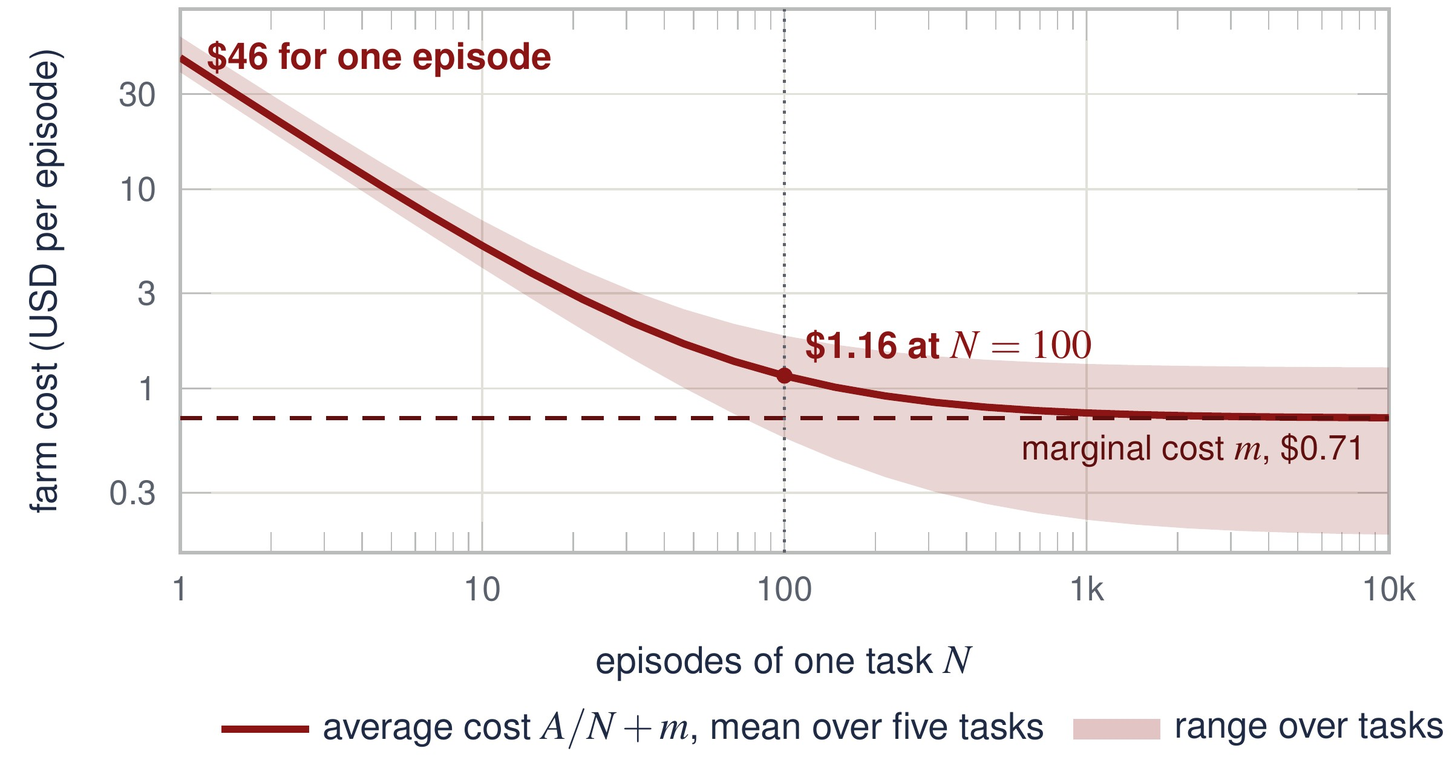
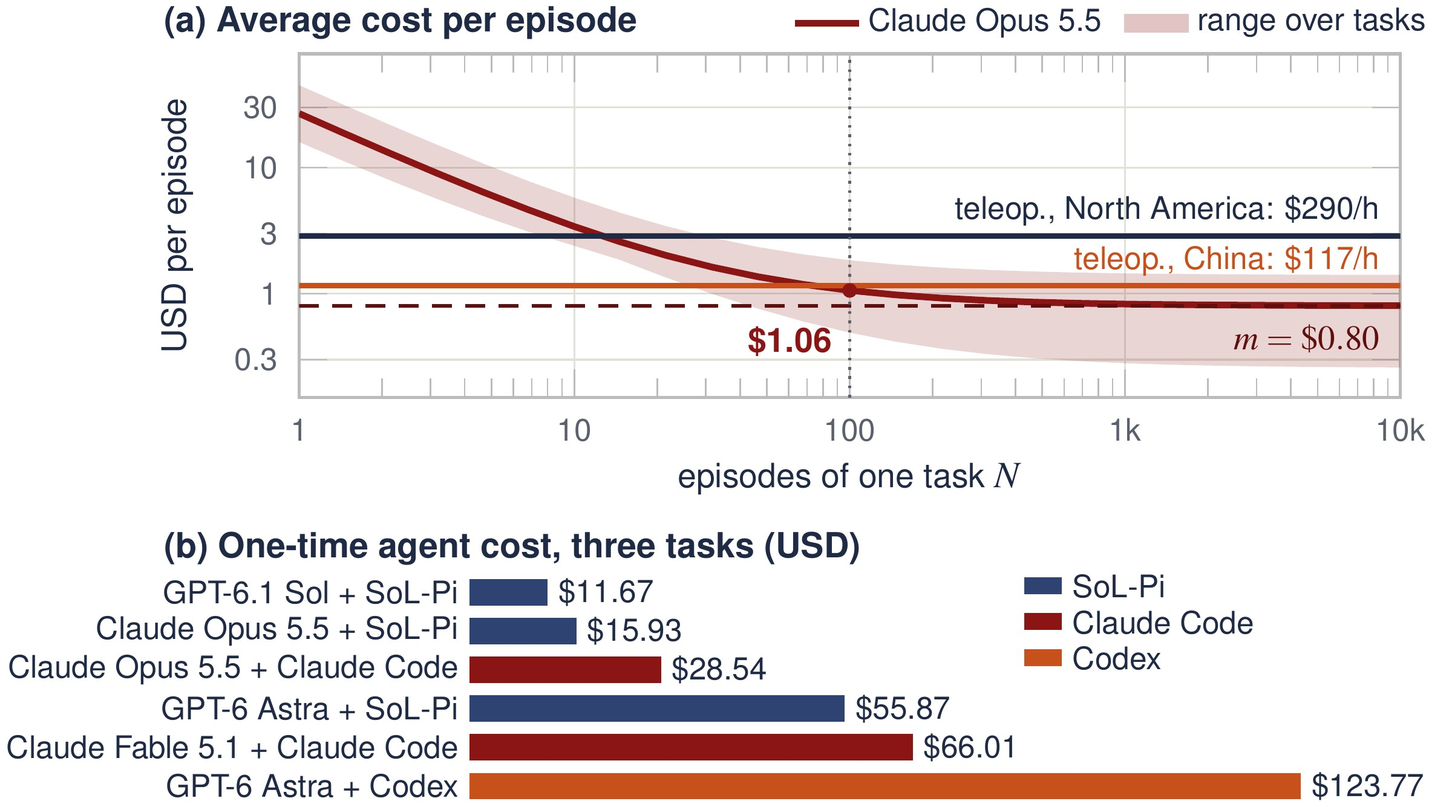
Cost numbers, title and authors as in the paper (r2s2v-paper 99e6ab6)
Use the paper's one-time costs: $21 per task, $1.06 at N=100, $0.83 at
N=1000 and $107 for one hour of data per task. Take the paper's title,
14-author list and wording, re-export the cost, farm and teaser images, and
keep the cost chart labels clear of the lower curve.

diff --git a/index.html b/index.html
@@ -3,14 +3,14 @@
 <head>
   <meta charset="utf-8">
   <meta name="viewport" content="width=device-width, initial-scale=1">
-  <title>PyRUA-DataFarm: GPT-6 Astra as a Cost-Efficient Teleoperator for Real-Ready Robot Data</title>
+  <title>PyRUA-DataFarm: LLM Agent as a Cost-Efficient Teleoperator for Real-Ready Robot Data</title>
   <meta name="description" content="PyRUA-DataFarm: a coding agent turns a data request and one calibration episode of the scene into real-ready robot data: synchronized photographic camera views labelled with the robot's own actions.">
-  <meta name="keywords" content="Agentic data generation, Robot learning, Real-to-sim-to-real, Video generation, Teleoperation, GPT-6 Astra">
-  <meta name="author" content="Kewei Zhang, Juncheng Ma, Duomin Wang, Guodong Lv, Ruiyang Si, Chuanrui Zhang, Yuxuan Chen, Hao Chen, Yichen Liu, Feixiang Ruan, Yufan Deng, Enze Xie, Daquan Zhou">
+  <meta name="keywords" content="Agentic data generation, Robot learning, Real-to-sim-to-real, Video generation, Teleoperation, Coding agents">
+  <meta name="author" content="Kewei Zhang, Juncheng Ma, Guodong Lv, Duomin Wang, Feixiang Ruan, Ruiyang Si, Chuanrui Zhang, Yuxuan Chen, Hao Chen, Yichen Liu, Yintianrun Zhang, Yufan Deng, Enze Xie, Daquan Zhou">
   <meta property="og:type" content="article">
   <meta property="og:site_name" content="Peking University, NVIDIA">
-  <meta property="og:title" content="PyRUA-DataFarm: GPT-6 Astra as a Cost-Efficient Teleoperator for Real-Ready Robot Data">
-  <meta property="og:description" content="One calibration episode in, real-ready robot data out. Policies trained only on farm data keep 87 of 100 real-robot successes under unseen appearance, where teleoperation data falls to 46.">
+  <meta property="og:title" content="PyRUA-DataFarm: LLM Agent as a Cost-Efficient Teleoperator for Real-Ready Robot Data">
+  <meta property="og:description" content="One calibration episode in, real-ready robot data out. Policies trained only on farm data keep 87 successes in 100 real-robot trials under unseen appearance, where teleoperation-trained policies fall to 46.">
   <meta property="og:image" content="static/images/teaser.jpg">
   <meta name="twitter:card" content="summary_large_image">
   <meta name="theme-color" content="#0A0E16">
@@ -47,19 +47,20 @@
 <section class="hero">
   <div class="hero-title">
     <div class="wordmark" aria-label="PyRUA-DataFarm"><span class="wm-py">PyRUA</span><span class="wm-dash">-</span><span class="wm-farm">DataFarm</span></div>
-    <h1>GPT-6 Astra as a Cost-Efficient Teleoperator for <span class="hl">Real-Ready</span> Robot Data</h1>
+    <h1>LLM Agent as a Cost-Efficient Teleoperator for <span class="hl">Real-Ready</span> Robot Data</h1>
     <p class="tagline">A coding agent does the teleoperator's job. <b>One calibration episode in, real-ready robot data out.</b></p>
     <div class="authors">
       <span><a href="https://xiwen1.github.io/" target="_blank" rel="noopener">Kewei Zhang</a><sup>1*</sup></span>
       <span>Juncheng Ma<sup>1*</sup></span>
-      <span><a href="https://dorniwang.github.io/" target="_blank" rel="noopener">Duomin Wang</a><sup>2&dagger;</sup></span>
       <span>Guodong Lv<sup>1</sup></span>
+      <span><a href="https://dorniwang.github.io/" target="_blank" rel="noopener">Duomin Wang</a><sup>2&dagger;</sup></span>
+      <span><a href="https://vme0522.github.io/" target="_blank" rel="noopener">Feixiang Ruan</a><sup>1</sup></span>
       <span>Ruiyang Si<sup>1</sup></span>
       <span>Chuanrui Zhang<sup>2</sup></span>
       <span>Yuxuan Chen<sup>1</sup></span>
       <span>Hao Chen<sup>1</sup></span>
       <span>Yichen Liu<sup>1</sup></span>
-      <span><a href="https://vme0522.github.io/" target="_blank" rel="noopener">Feixiang Ruan</a><sup>1</sup></span>
+      <span>Yintianrun Zhang<sup>1</sup></span>
       <span>Yufan Deng<sup>1</sup></span>
       <span>Enze Xie<sup>2&dagger;</sup></span>
       <span><a href="https://zhoudaquan.github.io/homepage.io/index.html" target="_blank" rel="noopener">Daquan Zhou</a><sup>1&dagger;</sup></span>
@@ -98,7 +99,7 @@
     </div>
     <div class="show-foot">
       <div class="tabs" data-group="show" role="tablist" aria-label="Episode">
-        <button data-key="stack">Stack cups</button><button data-key="drawer">Put cube in drawer</button>
+        <button data-key="stack">Stack cups</button><button data-key="drawer">Pull drawer</button>
       </div>
       <p class="fine">Left: the simulated rollout. Right: the farm episode rendered from it. Head camera on top, wrist cameras below; the views agree with each other, and every frame keeps the exact action behind it.</p>
     </div>
@@ -107,7 +108,7 @@
   <div class="stats">
     <a class="stat" href="#results"><span class="stat-k">Unseen tablecloth &amp; light</span><span class="stat-v"><b data-count="87">87</b><i>vs 46</i></span><span class="stat-t">real-robot successes in 100 trials, farm data vs. as many teleoperated episodes</span></a>
     <a class="stat" href="#results"><span class="stat-k">Original scene</span><span class="stat-v"><b data-count="93">93</b><i>vs 84</i></span><span class="stat-t">successes in 100 trials over five tasks, without a single real demonstration in training</span></a>
-    <a class="stat" href="#cost"><span class="stat-k">No person in the loop</span><span class="stat-v"><b data-count="45" data-prefix="$">$45</b><i>per task</i></span><span class="stat-t">mean one-time agent cost to adapt a new task, fully automatic</span></a>
+    <a class="stat" href="#cost"><span class="stat-k">No person in the loop</span><span class="stat-v"><b data-count="21" data-prefix="$">$21</b><i>per task</i></span><span class="stat-t">mean one-time agent cost to adapt a new task, fully automatic</span></a>
     <a class="stat" href="#contrast"><span class="stat-k">Every camera</span><span class="stat-v"><b data-count="3">3</b><i>views, one generation</i></span><span class="stat-t">head and wrist cameras rendered together, all following the same simulated state</span></a>
   </div>
 </section>
@@ -144,7 +145,7 @@
         <h3>What DataFarm adds to the video model</h3>
         <p><b>Structure from the simulator, appearance from the real cameras.</b> Edge maps of the untextured simulator video fix arm pose, object positions, and timing; real reference frames and a picture of the robot supply only the look.</p>
         <p><b>All cameras in one generation.</b> Head and wrist views are tiled on one canvas and generated as one video, so they share lighting and materials and agree on which objects exist and what each gripper holds.</p>
-        <p><b>References and prompts that add no content,</b> and <b>long episodes without drift</b>: references match the simulated task state, prompts describe only the current segment, and long episodes are independent chunks joined without changing geometry or timing.</p>
+        <p><b>References and prompts that add no content,</b> and <b>long episodes without drift</b>: references match the simulated task state, prompts describe only the current segment, and long episodes are generated as independent chunks and joined where neighbouring chunks differ least.</p>
       </div>
       <div class="tcard rv">
         <table class="tbl">
@@ -291,9 +292,9 @@
         <div class="case rv"><h3>Phantom arm</h3><p>An arm the simulator does not contain.</p>
           <div class="pair"><div><img src="static/demo/b_phantom_sim.jpg" alt="Simulator frame" loading="lazy"><span class="chip">simulator</span></div>
             <div class="rej"><img src="static/demo/b_phantom_gen.jpg" alt="Rejected render with an extra arm" loading="lazy"><span class="chip red"><i class="fas fa-times"></i> render: rejected</span></div></div></div>
-        <div class="case rv"><h3>Future state drawn early</h3><p>The cube is in the drawer before the simulator puts it there.</p>
+        <div class="case rv"><h3>Future state drawn early</h3><p>The block is in the drawer before the simulator puts it there.</p>
           <div class="pair"><div><img src="static/demo/b_future_sim.jpg" alt="Simulator frame" loading="lazy"><span class="chip">simulator</span></div>
-            <div class="rej"><img src="static/demo/b_future_gen.jpg" alt="Rejected render with the cube already in the drawer" loading="lazy"><span class="chip red"><i class="fas fa-times"></i> render: rejected</span></div></div></div>
+            <div class="rej"><img src="static/demo/b_future_gen.jpg" alt="Rejected render with the block already in the drawer" loading="lazy"><span class="chip red"><i class="fas fa-times"></i> render: rejected</span></div></div></div>
         <div class="case rv"><h3>Invented cloth</h3><p>A wrist view adds towel where the simulation is empty.</p>
           <div class="pair"><div><img src="static/demo/b_invent_sim_f5.jpg" alt="Simulator frame" loading="lazy"><span class="chip">simulator</span></div>
             <div class="rej"><img src="static/demo/b_invent_gen_f5.jpg" alt="Rejected render with invented cloth" loading="lazy"><span class="chip red"><i class="fas fa-times"></i> render: rejected</span></div></div></div>
@@ -371,32 +372,32 @@
   <div class="wrap">
     <div class="sec-head rv">
       <span class="kicker">Cost</span>
-      <h2>Pay once per task, then only for rendering and review</h2>
-      <p>The farm pays once to adapt a task, with no person in the loop, then only for rendering and review of each episode; a new appearance is a text change. The farm's figures below are measured; the teleoperation figures are labour in North America and a quote from China.</p>
+      <h2>Pay once per task, then only per episode</h2>
+      <p>The farm pays once to adapt a task, with no person in the loop, then only for simulating, rendering, and reviewing each episode; a new appearance is a text change. The farm's figures below count only published or measured inputs; the teleoperation figures are labour in North America and a quote from China.</p>
     </div>
     <div class="cost-cards">
-      <div class="cc rv"><span class="cc-k">One-time, per task</span><span class="cc-v">$45</span><span class="cc-t">mean agent cost to adapt a task ($38&ndash;57 over five tasks), no human intervention</span></div>
-      <div class="cc rv"><span class="cc-k">Per farm episode</span><span class="cc-v">$0.71</span><span class="cc-t">mean marginal cost of an admitted episode ($0.18&ndash;1.27): rendering, re-rendering, review</span></div>
-      <div class="cc rv"><span class="cc-k">Average at 100 episodes</span><span class="cc-v">$1.16</span><span class="cc-t">per episode, one-time cost included ($0.57&ndash;1.84 over five tasks); $0.75 at 1,000. One hour of three-view data per task: $114, against a $117 quote in China and $290* of labour in North America</span></div>
+      <div class="cc rv"><span class="cc-k">One-time, per task</span><span class="cc-v">$21</span><span class="cc-t">mean agent cost to adapt a task ($10&ndash;37 over five tasks), plus $5 for a render contract</span></div>
+      <div class="cc rv"><span class="cc-k">Per farm episode</span><span class="cc-v">$0.80</span><span class="cc-t">mean marginal cost of an admitted episode ($0.26&ndash;1.41): simulation, rendering, re-rendering, review</span></div>
+      <div class="cc rv"><span class="cc-k">Average at 100 episodes</span><span class="cc-v">$1.06</span><span class="cc-t">per episode, one-time and contract costs included ($0.49&ndash;1.84 over five tasks); $0.83 at 1,000. One hour of three-view data per task: $107, against a $117 quote in China and $290* of labour in North America</span></div>
       <div class="cc rv"><span class="cc-k">New appearance</span><span class="cc-v">+$0</span><span class="cc-t">a new tablecloth or light is a text change in the render request: same cost per episode</span></div>
     </div>
     <div class="cost-row">
       <div class="cost-chart rv" id="cost-chart"><div class="cost-read" id="cost-read"></div></div>
       <div class="tcard rv">
         <table class="tbl">
-          <thead><tr><th>Task</th><th>One-time</th><th>Farm / ep.</th><th>Avg. / ep.<br>N=100</th><th>Avg. / ep.<br>N=1,000</th><th>Per hour<br>1 h / task</th></tr></thead>
+          <thead><tr><th>Task</th><th>One-time</th><th>Contract</th><th>Farm / ep.</th><th>Avg. / ep.<br>N=100</th><th>Avg. / ep.<br>N=1,000</th><th>Per hour<br>1 h / task</th></tr></thead>
           <tbody>
-            <tr><td>Stack cups</td><td>44.26</td><td>0.86</td><td>1.30</td><td>0.90</td><td>115</td></tr>
-            <tr><td>Weigh apple</td><td>41.29</td><td>0.81</td><td>1.22</td><td>0.85</td><td>134</td></tr>
-            <tr><td>Beat drum</td><td>38.43</td><td>0.18</td><td>0.57</td><td>0.22</td><td>96</td></tr>
-            <tr><td>Pull drawer</td><td>43.61</td><td>0.43</td><td>0.86</td><td>0.47</td><td>89</td></tr>
-            <tr><td>Fold towel</td><td>57.02</td><td>1.27</td><td>1.84</td><td>1.33</td><td>137</td></tr>
-            <tr class="us"><td>Mean</td><td>44.92</td><td>0.71</td><td>1.16</td><td>0.75</td><td>114</td></tr>
-            <tr><td>Teleop., N. America*</td><td>&ndash;</td><td>2.86</td><td>2.86</td><td>2.86</td><td>290</td></tr>
-            <tr><td>Teleop., China, quote</td><td>&ndash;</td><td>1.16</td><td>1.16</td><td>1.16</td><td>117</td></tr>
+            <tr><td>Stack cups</td><td>18.22</td><td>6.11</td><td>0.93</td><td>1.17</td><td>0.96</td><td>101</td></tr>
+            <tr><td>Weigh apple</td><td>10.33</td><td>4.72</td><td>0.89</td><td>1.04</td><td>0.91</td><td>117</td></tr>
+            <tr><td>Beat drum</td><td>19.25</td><td>4.11</td><td>0.26</td><td>0.49</td><td>0.28</td><td>106</td></tr>
+            <tr><td>Pull drawer</td><td>19.40</td><td>4.49</td><td>0.52</td><td>0.76</td><td>0.54</td><td>79</td></tr>
+            <tr><td>Fold towel</td><td>37.38</td><td>6.23</td><td>1.41</td><td>1.84</td><td>1.45</td><td>132</td></tr>
+            <tr class="us"><td>Mean</td><td>20.92</td><td>5.13</td><td>0.80</td><td>1.06</td><td>0.83</td><td>107</td></tr>
+            <tr><td>Teleop., N. America*</td><td>&ndash;</td><td>&ndash;</td><td>2.86</td><td>2.86</td><td>2.86</td><td>290</td></tr>
+            <tr><td>Teleop., China, quote</td><td>&ndash;</td><td>&ndash;</td><td>1.16</td><td>1.16</td><td>1.16</td><td>117</td></tr>
           </tbody>
         </table>
-        <p class="fine">USD. One-time: agent cost of adapting the task, from the calibration episode to 100 qualified simulated episodes and a render contract, at standard API pricing. Farm / ep.: H3 rendering on rented GPUs, re-rendering of flagged chunks, and independent review per admitted episode. Avg. / ep.: one-time cost spread over N episodes plus the per-episode cost; it falls towards the per-episode cost, which is dominated by rendering. Per hour, 1 h / task: the cost of collecting one hour of synchronized three-view data for a task, one-time cost included. Teleop., N. America: *estimated with Claude Opus 5.5, the labour of teleoperated collection (operator, supervision and review, post-processing; no robot, venue, or setup), $190&ndash;520 per usable hour across our assumptions. Teleop., China: a full-service quote for custom data, about RMB 800 per hour. Both per episode at the farm's mean length.</p>
+        <p class="fine">USD. One-time: agent cost from the calibration episode to five admitted simulated episodes, at standard API pricing, with Claude Opus 5.5 in SoL-Pi, and in Claude Code on fold towel. Contract: the render contract. Farm / ep.: rollouts and audit, H3 rendering on rented GPUs, re-rendering of flagged chunks, and independent review per admitted episode. Avg. / ep.: one-time and contract costs spread over N episodes plus the per-episode cost; it falls towards the per-episode cost. Per hour, 1 h / task: the cost of collecting one hour of synchronized three-view data for a task, one-time and contract costs included. Teleop., N. America: *estimated with Claude Opus 5.5, the labour of teleoperated collection (operator, supervision and review, post-processing; no robot, venue, or setup), $190&ndash;520 per usable hour across our assumptions. Teleop., China: a full-service quote for custom data, about RMB 800 per hour. Both per episode at the farm's mean length.</p>
       </div>
     </div>
   </div>
@@ -411,7 +412,7 @@
       <p>Because agents write both the expert and its checks, and the video model may alter the scene, every stage is checked by a component other than its producer.</p>
     </div>
     <ol class="mini-steps">
-      <li class="rv"><b>Grounding and simulator qualification.</b> The agent aligns the cameras, fits scale and physical parameters, and labels each quantity as measured, fitted, assumed, or unknown; skill probes check that the simulator can reproduce the actions the task needs.</li>
+      <li class="rv"><b>Grounding and simulator qualification.</b> The agent fits the cameras and metric scale, estimates object geometry and articulation, and labels each quantity as measured, fitted, assumed, or unknown; short probes check that the simulator can reproduce the skills the task requires.</li>
       <li class="rv"><b>Task contract and expert.</b> The expert is developed against a judge it cannot inspect and admitted only on held-out initial states; every admitted trajectory is one continuous execution.</li>
       <li class="rv"><b>Rendering with real images.</b> The renderer may alter appearance but not geometry, objects, or timing; all cameras are generated together from the simulator's structure.</li>
       <li class="rv"><b>Verification and admission.</b> Every rendered episode is compared with its simulated state by machine checks and an independent reviewer; all attempts and failures are kept.</li>
@@ -419,12 +420,12 @@
     <figure class="paper-fig mfig rv"><img src="static/images/teaser.jpg" alt="What the farm delivers" loading="lazy" width="2400" height="1132"></figure>
     <p class="cap rv" style="margin-top:-16px;margin-bottom:34px"><b>What the farm delivers.</b> (a) The same frame of a simulator rollout and of the farm episode for each task. (b) From a request and one calibration episode, the agent builds the task in simulation, and the video model renders each rollout in the original scene or a scene described by text. (c) Real-robot successes. (d) Mean costs over the five tasks.</p>
     <figure class="paper-fig mfig rv"><img src="static/images/method.jpg" alt="The DataFarm pipeline on one drawer episode" loading="lazy" width="2400" height="714"></figure>
-    <p class="cap rv" style="margin-top:-16px;margin-bottom:34px"><b>The pipeline, followed on one drawer episode.</b> The reusable skills, role instructions, render templates, verifiers, and harness are versioned apart from the task artifacts the agent writes.</p>
+    <p class="cap rv" style="margin-top:-16px;margin-bottom:34px"><b>The DataFarm pipeline, followed on one drawer episode.</b> The capability layer is shared by all tasks; everything above it is written for this task.</p>
     <figure class="paper-fig mfig rv"><img src="static/images/views.jpg" alt="The same simulated frame rendered by direct calls and by DataFarm, with contradictions boxed" loading="lazy" width="2400" height="1152"></figure>
     <p class="cap rv" style="margin-top:-16px;margin-bottom:34px"><b>Following the simulation in every view.</b> Red boxes mark views that contradict the simulator or the other views of the same frame.</p>
     <details class="abstract rv">
       <summary>Abstract</summary>
-      <p>Teleoperation remains the default way to collect robot demonstrations, but every episode costs robot and operator time, and every new task starts from scratch. We ask whether a coding agent can take over the teleoperator's job. In our DataFarm, the agent receives a data request and one calibration episode of the robot in the target scene and rebuilds the task in simulation: it writes the scene, an expert controller, and a success judge. The simulator supplies exact actions, and a video model conditioned on real images renders each rollout as photographic video, generating all camera views together consistently. The output is real-ready data: synchronized camera views labelled with the robot's actions, on which a policy is trained directly and deployed on the real robot. Independent judges certify the expert and every rendered episode before admission. On five real-robot tasks, policies trained only on farm data match policies trained on as many teleoperated episodes (93 vs. 84 successes in 100 trials), and under an unseen tablecloth and coloured light they keep 87 successes where the teleoperation-trained policies fall to 46. Adapting a task is fully automatic and costs $45 of API usage on average, paid once per task; every further episode costs $0.71 on average for rendering and review, with no robot or operator. One hour of three-view data for a task costs $114 on average, one-time cost included, about the same as a quote of $117 for teleoperation in China and below $290 in labour alone in North America.</p>
+      <p>Teleoperation remains the default way to collect robot demonstrations, but every episode costs robot and operator time, and every new task starts from scratch. We ask whether a coding agent can take over the teleoperator's job. In our DataFarm, the agent receives a data request and one calibration episode of the robot in the target scene and rebuilds the task in simulation: it writes the scene, an expert controller, and a success judge. The simulator supplies exact actions, and a video model conditioned on real images renders each rollout as photographic video, generating all camera views together consistently. The output is real-ready data: synchronized camera views labelled with the robot's actions, on which a policy can be trained directly and deployed on the real robot. Independent judges certify the expert and every rendered episode before admission. On five real-robot tasks, policies trained only on farm data match policies trained on as many teleoperated episodes (93 vs. 84 successes in 100 trials), and under an unseen tablecloth and coloured light they keep 87 successes where the teleoperation-trained policies fall to 46. Adapting a task is fully automatic and costs $21 of API usage on average, paid once per task, plus $5 for a render contract; every further episode costs $0.80 on average for simulation, rendering, and review, with no robot or operator. One hour of three-view data for a task costs $107 on average, these costs included, slightly below a quote of $117 for teleoperation in China and below $290 in labour alone in North America.</p>
     </details>
   </div>
 </section>
@@ -433,8 +434,8 @@
   <div class="wrap narrow">
     <div class="bib-head"><h2>BibTeX</h2><button class="pill copy" id="copy-bib" type="button"><i class="fas fa-copy"></i><span>Copy</span></button></div>
     <pre id="bibtex-code"><code>@article{zhang2026datafarm,
-  title={PyRUA-DataFarm: GPT-6 Astra as a Cost-Efficient Teleoperator for Real-Ready Robot Data},
-  author={Zhang, Kewei and Ma, Juncheng and Wang, Duomin and Lv, Guodong and Si, Ruiyang and Zhang, Chuanrui and Chen, Yuxuan and Chen, Hao and Liu, Yichen and Ruan, Feixiang and Deng, Yufan and Xie, Enze and Zhou, Daquan},
+  title={PyRUA-DataFarm: LLM Agent as a Cost-Efficient Teleoperator for Real-Ready Robot Data},
+  author={Zhang, Kewei and Ma, Juncheng and Lv, Guodong and Wang, Duomin and Ruan, Feixiang and Si, Ruiyang and Zhang, Chuanrui and Chen, Yuxuan and Chen, Hao and Liu, Yichen and Zhang, Yintianrun and Deng, Yufan and Xie, Enze and Zhou, Daquan},
   journal={arXiv preprint},
   year={2026}
 }</code></pre>
@@ -461,11 +462,11 @@
     "towel":  {"line": "Fold towel. The simulator models how the cloth moves; the renderer gives it the texture of the real towel.", "speed": ""}
   },
   "views": {
-    "drawer": "The simulator has already placed the cube in the open top drawer. Both direct calls still show it on the table with the drawers closed, and their wrist views show the arms from outside. DataFarm shows the cube in the drawer in every view.",
+    "drawer": "The simulator has already placed the block in the open top drawer. Both direct calls still show it on the table with the drawers closed, and their wrist views show the arms from outside. DataFarm shows the block in the drawer in every view.",
     "cups": "Two cups are stacked and one is still to be placed. Called directly on one canvas, the video model shows a finished stack and cups lying on their side; per camera, extra grippers and other stacks appear. DataFarm agrees with the simulator in every view."
   },
   "appearance": ["light-wood table, warm lamp light", "blue felt, cool light", "marble table", "brushed steel"],
-  "cost": {"adapt": [44.26, 41.29, 38.43, 43.61, 57.02], "m": [0.86, 0.81, 0.18, 0.43, 1.27], "nmin": 10, "nmax": 1000, "teleop": 2.86, "teleopCn": 1.16}
+  "cost": {"adapt": [24.33, 15.05, 23.36, 23.89, 43.61], "m": [0.93, 0.89, 0.26, 0.52, 1.41], "nmin": 10, "nmax": 1000, "teleop": 2.86, "teleopCn": 1.16}
 }</script>
 </main>
 

diff --git a/static/js/site.js b/static/js/site.js
@@ -265,7 +265,7 @@ function setupCost(data) {
   const lo = n => Math.min(...c.adapt.map((_, i) => per(i, n))), hi = n => Math.max(...c.adapt.map((_, i) => per(i, n)));
   const mMean = c.m.reduce((s, v) => s + v, 0) / K, ymax = Math.ceil(hi(N0));
   const X = n => L + (W - L - R) * Math.log10(n / N0) / Math.log10(N1 / N0), Y = v => T + (H - T - B) * (1 - v / ymax);
-  const svg = svgEl('svg', { viewBox: `0 0 ${W} ${H}`, role: 'img', 'aria-label': 'Farm cost per episode for N episodes of one task, against two teleoperation estimates' });
+  const svg = svgEl('svg', { viewBox: `0 0 ${W} ${H}`, role: 'img', 'aria-label': 'Farm cost per episode for N episodes of one task, against a teleoperation labour estimate and a quote' });
   for (let v = 0; v <= ymax; v += 1) {
     svg.appendChild(svgEl('line', { x1: L, x2: W - R, y1: Y(v), y2: Y(v), stroke: 'rgba(255,255,255,0.07)' }));
     svg.appendChild(svgEl('text', { x: L - 8, y: Y(v) + 4, 'text-anchor': 'end', 'font-size': 12, fill: '#7D8899' }, '$' + v));
@@ -280,9 +280,9 @@ function setupCost(data) {
   svg.appendChild(svgEl('line', { x1: X(N0), x2: X(N1), y1: Y(c.teleop), y2: Y(c.teleop), stroke: '#E8EDF4', 'stroke-dasharray': '10 4 2 4', 'stroke-width': 1.8 }));
   svg.appendChild(svgEl('text', { x: X(N1) - 6, y: Y(c.teleop) - 8, 'text-anchor': 'end', 'font-size': 12.5, 'font-weight': 700, fill: '#E8EDF4' }, `teleoperation labour, North America*: $${c.teleop.toFixed(2)}`));
   svg.appendChild(svgEl('line', { x1: X(N0), x2: X(N1), y1: Y(c.teleopCn), y2: Y(c.teleopCn), stroke: '#F0B35A', 'stroke-dasharray': '10 4 2 4', 'stroke-width': 1.8 }));
-  svg.appendChild(svgEl('text', { x: X(N0) + 6, y: Y(c.teleopCn) - 8, 'font-size': 12.5, 'font-weight': 700, fill: '#F0B35A' }, `teleoperation quote, China: $${c.teleopCn.toFixed(2)}`));
+  svg.appendChild(svgEl('text', { x: X(N0) + 6, y: Y(c.teleopCn) - 8, 'font-size': 12.5, 'font-weight': 700, fill: '#F0B35A' }, `teleop. quote, China: $${c.teleopCn.toFixed(2)}`));
   svg.appendChild(svgEl('polyline', { points: pts(mean, ns), fill: 'none', stroke: '#E26A58', 'stroke-width': 3.4, 'stroke-linecap': 'round' }));
-  svg.appendChild(svgEl('text', { x: X(14), y: Y(mean(14)) - 12, 'font-size': 12.5, 'font-weight': 700, fill: '#FF8A78' }, 'DataFarm, average per episode'));
+  svg.appendChild(svgEl('text', { x: X(12), y: Y(3.5), 'font-size': 12.5, 'font-weight': 700, fill: '#FF8A78' }, 'DataFarm, average per episode'));
   [100, 1000].forEach(n => {
     svg.appendChild(svgEl('line', { x1: X(n), x2: X(n), y1: Y(mean(n)), y2: Y(0), stroke: 'rgba(226,106,88,0.5)', 'stroke-dasharray': '3 4' }));
     svg.appendChild(svgEl('circle', { cx: X(n), cy: Y(mean(n)), r: 6, fill: '#0A0E16', stroke: '#E26A58', 'stroke-width': 2.5 }));
